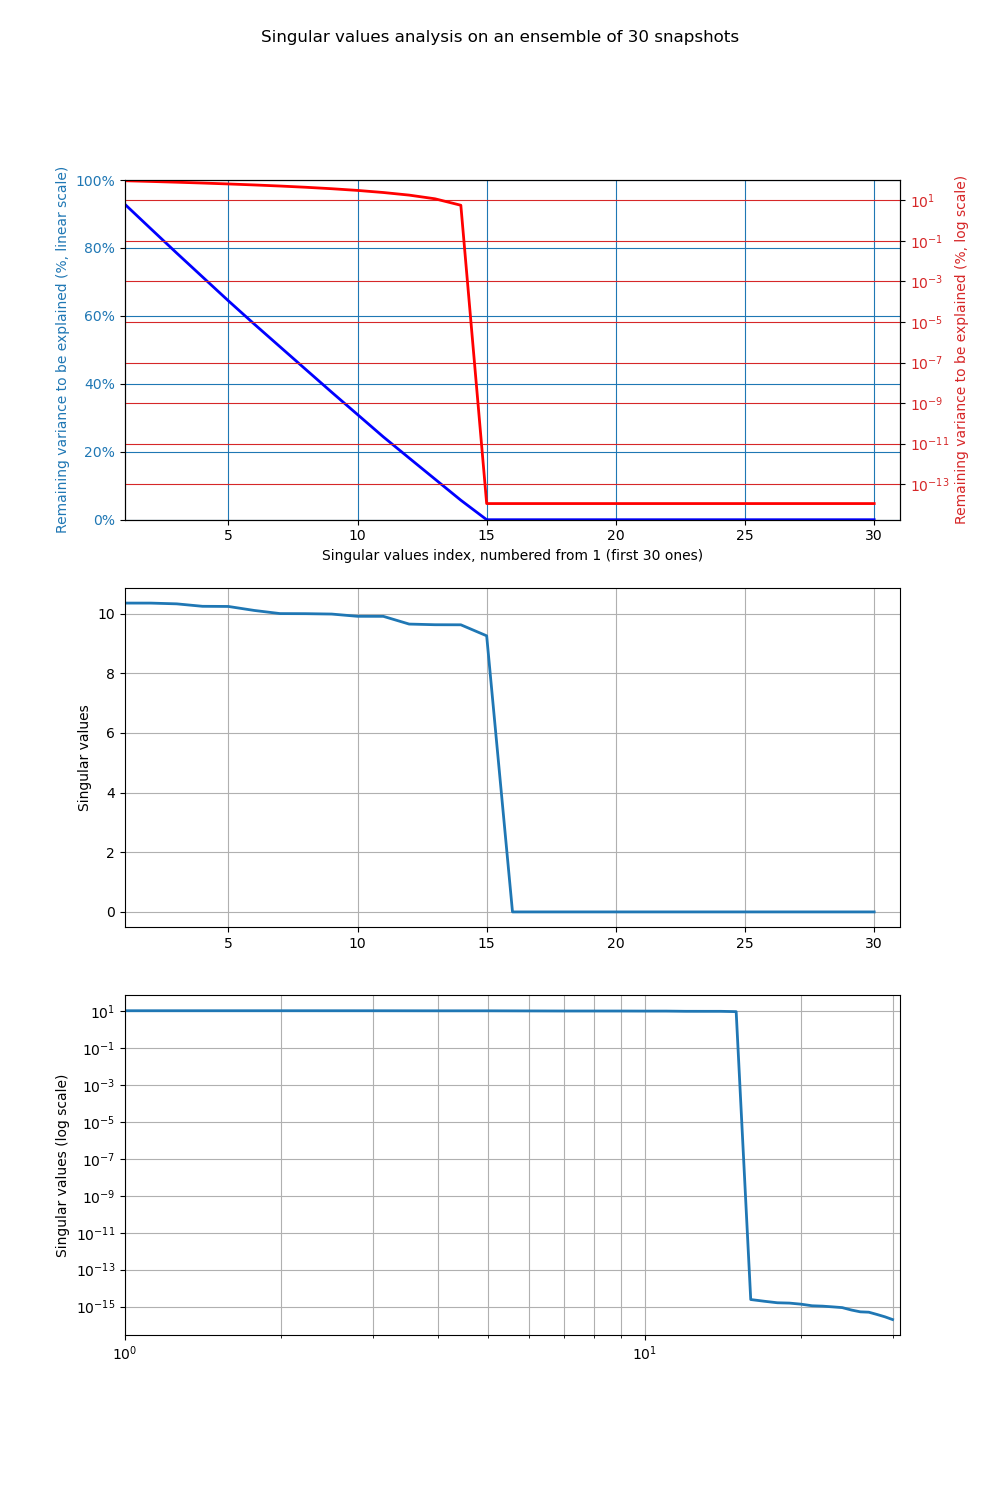
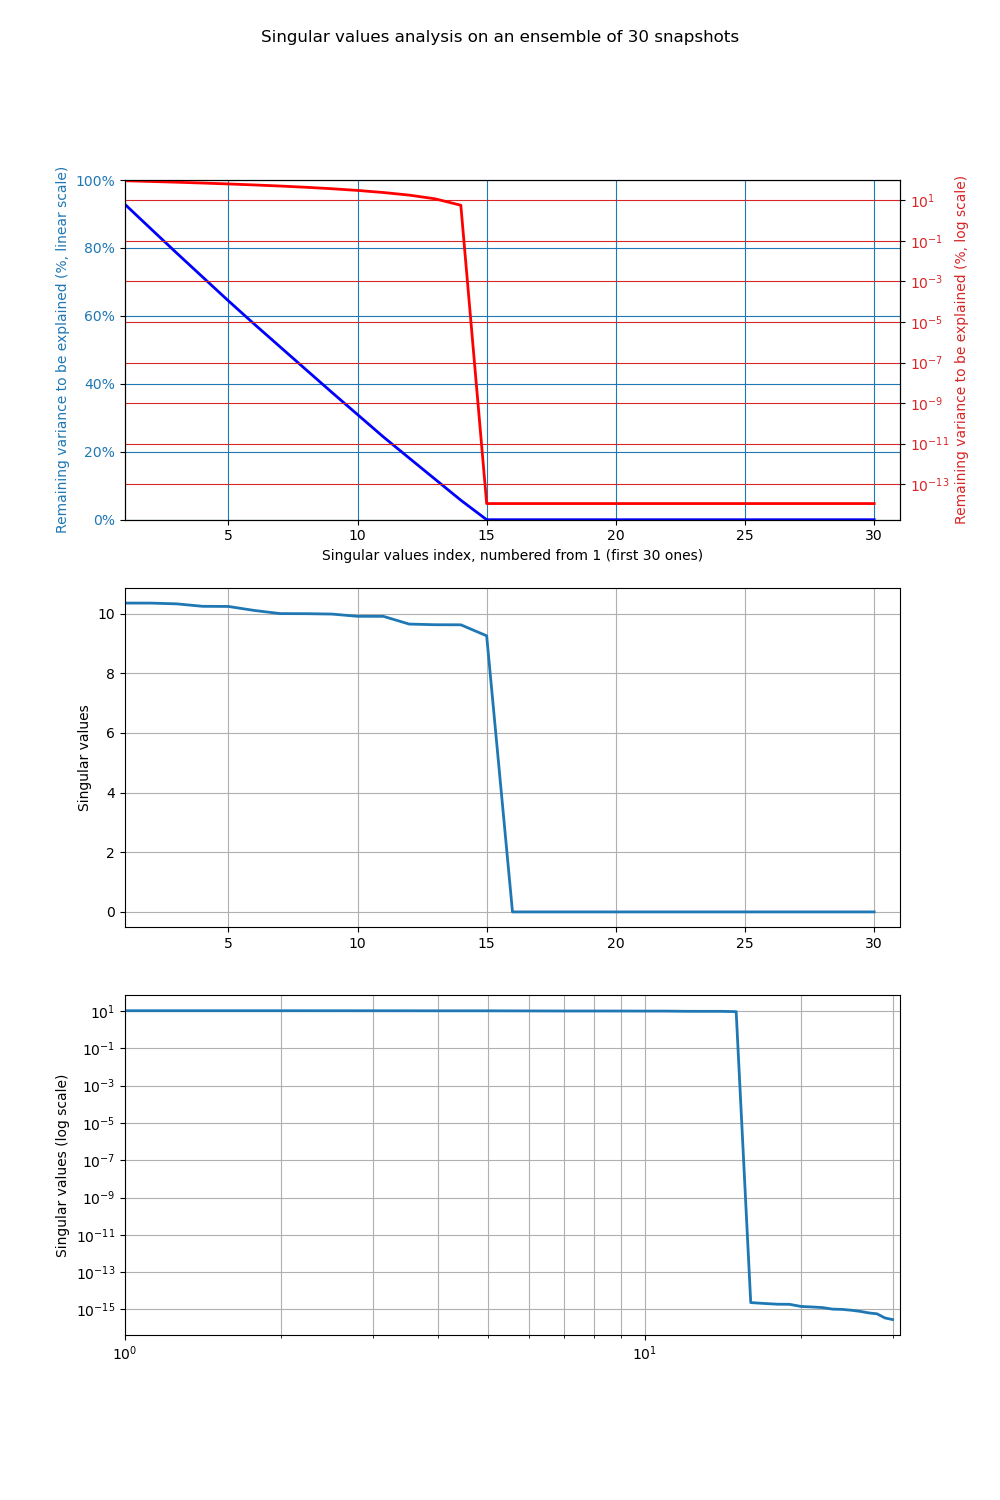
Updating documentation and figures

Changed region(s): [[0.744, 0.8587, 0.837, 0.8893], [0.744, 0.7973, 0.775, 0.828], [0.093, 0.7667, 0.124, 0.7973]]

diff --git a/src/daComposant/daCore/PlatformInfo.py b/src/daComposant/daCore/PlatformInfo.py
@@ -256,6 +256,36 @@ class PlatformInfo(object):
                 str(locale.getlocale()),
             )
         __msg += "\n"
+        if os.path.exists(f"/proc/cpuinfo"):
+            with open(f"/proc/cpuinfo") as cpuinfo:
+                physical = {}
+                core = {}
+                logical_cores = 0
+                for line in cpuinfo:
+                    line = line.strip().lower()
+                    if not line:
+                        try:
+                            physical[core["physical id"]] = core["cpu cores"]
+                        except KeyError:
+                            pass
+                        core = {}
+                    if line.startswith(("physical id", "cpu cores")):
+                        key, value = line.split("\t:", 1)
+                        core[key] = int(value)
+                    if line.startswith("processor"):
+                        logical_cores += 1
+            physical_cores = sum(physical.values()) or None
+            logical_cores = logical_cores or None
+            __msg += "\n%s%30s : %s" % (
+                __prefix,
+                "physical core number (cpuinfo)",
+                physical_cores,
+            )
+            __msg += "\n%s%30s : %s" % (
+                __prefix,
+                "logical core number (cpuinfo)",
+                logical_cores,
+            )
         __msg += "\n%s%30s : %s" % (__prefix, "os.cpu_count", os.cpu_count())
         if hasattr(os, "process_cpu_count"):
             __msg += "\n%s%30s : %s" % (

diff --git a/doc/en/scripts/simple_ParameterCalibrationTask1.py b/doc/en/scripts/simple_ParameterCalibrationTask1.py
@@ -26,9 +26,6 @@ case.setObservationOperator( OneFunction = QuadFunction )
 case.setAlgorithmParameters(
     Algorithm="ParameterCalibrationTask",
     Parameters={
-        "Variant":"3DVARGradientOptimization",
-        "Minimizer":"LBFGSB",
-        "MaximumNumberOfIterations": 100,
         "StoreSupplementaryCalculations": [
             "CurrentState",
             "OMA",

diff --git a/doc/fr/scripts/simple_ParameterCalibrationTask1.py b/doc/fr/scripts/simple_ParameterCalibrationTask1.py
@@ -26,9 +26,6 @@ case.setObservationOperator( OneFunction = QuadFunction )
 case.setAlgorithmParameters(
     Algorithm="ParameterCalibrationTask",
     Parameters={
-        "Variant":"3DVARGradientOptimization",
-        "Minimizer":"LBFGSB",
-        "MaximumNumberOfIterations": 100,
         "StoreSupplementaryCalculations": [
             "CurrentState",
             "OMA",

diff --git a/doc/fr/examples.rst b/doc/fr/examples.rst
@@ -35,6 +35,19 @@ Ces exemples sont disponibles en direct dans les tutoriaux, dans les
 documentations détaillées d'algorithmes ou de problèmes appliqués, et dans les
 usages avancés. Ils sont rassemblés ici par catégorie et ordre alphabétique.
 
+Démarches générales d'utilisation
+---------------------------------
+
+Les exemples de cette sous-section sont définis en termes d'utilisation ou
+d'application (et non en termes de moyens ou d'algorithmes comme dans les
+sous-sections qui suivent). Ils sont volontairement en nombre restreint pour
+renforcer leur utilité. On recommande fortement à l'utilisateur occasionnel
+d'utiliser ces exemples pour débuter ou reprendre l'analyse et la résolution
+d'un problème réaliste.
+
+#. :ref:`Recalage de modèle paramétrique de simulation avec "ParameterCalibrationTask"<section_ref_algorithm_ParameterCalibrationTask_examples>`
+#. :ref:`Vérification du bon fonctionnement d'un modèle de simulation avec "FunctionTest"<section_ref_algorithm_FunctionTest_examples>`
+
 Tutoriaux
 ---------
 

diff --git a/doc/en/examples.rst b/doc/en/examples.rst
@@ -35,6 +35,18 @@ These examples are available in the tutorials, in the detailed documentations
 of algorithms or applied problems, and in the advanced uses. They are listed
 here by category and alphabetical order.
 
+General usage guidelines
+------------------------
+
+The examples in this subsection are defined in terms of uses or applications
+(rather than in terms of methods or algorithms, as in the following
+subsections). Their numbers are intentionally kept small to maximize their
+usefulness. We strongly recommend that occasional users start with these
+examples or return to them when analyzing and solving a realistic problem.
+
+#. :ref:`Calibration of a parametric simulation model using "ParameterCalibrationTask"<section_ref_algorithm_ParameterCalibrationTask_examples>`
+#. :ref:`Verifying the correct functioning of a simulation model using "FunctionTest"<section_ref_algorithm_FunctionTest_examples>`
+
 Tutorials
 ---------
 

diff --git a/doc/fr/scripts/simple_ParameterCalibrationTask1.rst b/doc/fr/scripts/simple_ParameterCalibrationTask1.rst
@@ -20,8 +20,8 @@ considérées comme parfaites. On choisit de privilégier les observations, au
 détriment de l'ébauche, par l'indication artificielle d'une très importante
 variance d'erreur d'ébauche, ici de :math:`10^{6}`.
 
-On utilise une optimisation variationnelle de type 3DVAR (méthode par défaut),
-explicitement demandée ici par la variante "3DVARGradientOptimization" indiquée
-pour cet algorithme. On obtient par nature les mêmes résultats que dans le
-premier exemple de l'algorithme du "3DVAR" (voir ses
-:ref:`section_ref_algorithm_3DVAR_examples`).
+On utilise une optimisation variationnelle par défaut de type 3DVAR,
+implicitement demandée ici par la variante "3DVARGradientOptimization" ou
+"3DVAR" indiquée par défaut pour cet algorithme. On obtient par nature les
+mêmes résultats que dans le premier exemple de l'algorithme du "3DVAR" (voir
+ses :ref:`section_ref_algorithm_3DVAR_examples`).

diff --git a/doc/en/scripts/simple_ParameterCalibrationTask1.rst b/doc/en/scripts/simple_ParameterCalibrationTask1.rst
@@ -20,7 +20,8 @@ perfect. We choose to emphasize the observations, versus the background, by
 setting artificially a great variance for the background error, here of
 :math:`10^{6}`.
 
-A 3DVAR variational optimization is used (default method), explicitly requested
-here by the "3DVARGradientOptimization" variant specified for this algorithm.
-By nature, the same results are obtained as in the first "3DVAR" algorithme
-example (see its :ref:`section_ref_algorithm_3DVAR_examples`).
+By default, a 3DVAR-type variational optimization is used, which is implicitly
+specified here by the "3DVARGradientOptimization" variant or the "3DVAR"
+variant specified by default for this algorithm. By nature, the same results
+are obtained as in the first "3DVAR" algorithme example (see its
+:ref:`section_ref_algorithm_3DVAR_examples`).

diff --git a/doc/en/snippets/ModuleCompatibility.rst b/doc/en/snippets/ModuleCompatibility.rst
@@ -16,7 +16,7 @@ versions within the range described below.
    :align: center
 
    Python,     3.6.5,    3.14.3
-   Numpy,      1.14.3,    2.4.4
+   Numpy,      1.14.3,    2.4.6
    Scipy,      0.19.1,    1.17.1
    MatplotLib, 2.2.2,    3.10.9
    GnuplotPy,  1.8,    1.8

diff --git a/doc/fr/snippets/ModuleCompatibility.rst b/doc/fr/snippets/ModuleCompatibility.rst
@@ -17,7 +17,7 @@ comprises dans l'étendue décrite ci-dessous.
    :align: center
 
    Python,     3.6.5,    3.14.3
-   Numpy,      1.14.3,    2.4.4
+   Numpy,      1.14.3,    2.4.6
    Scipy,      0.19.1,    1.17.1
    MatplotLib, 2.2.2,    3.10.9
    GnuplotPy,  1.8,    1.8